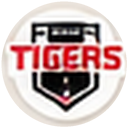
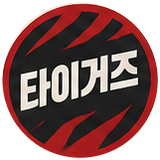
결정 보드 개편: 월요일 시작, 구단명 스티커, 구장 그림, A/H 표시, 손글씨 이벤트 10종, 찐팬 제외

diff --git a/index.html b/index.html
@@ -290,6 +290,27 @@ p{margin:0;line-height:1.55}
 .jump:focus-visible{outline:2px solid var(--accent);outline-offset:2px}
 .in{top:5cqi!important}
 @media (max-width:760px){.jump{position:static;display:block;margin:20px 14px -8px auto;font-size:12px;padding:4px 12px}}
+.dw.sat,.dc.sat .d{color:#2f5fc4}
+.dc .d .ah{display:inline-flex;gap:.15em;margin-left:.25em;font-size:.82em;color:var(--p-muted);vertical-align:.05em}
+.ah i,.ah14 i{font-style:normal;position:relative;display:inline-block;line-height:1}
+.ah i.on::after,.ah14 i.on::after{content:"";position:absolute;inset:-.28em -.32em;border:.1em solid #c8102e;border-radius:50%;transform:rotate(-8deg)}
+.ah14{position:absolute;left:2.6em;top:.65em;display:flex;gap:.45em;font-family:var(--num);font-weight:700;font-size:1.1em;color:var(--p-muted)}
+@media (prefers-reduced-motion:no-preference){.ah14 i.on::after{animation:circ 3.4s ease-out infinite;clip-path:inset(0 0 0 0)}}
+@keyframes circ{0%,25%{opacity:0;transform:rotate(-8deg) scale(1.4)}38%{opacity:1;transform:rotate(-8deg) scale(1)}90%{opacity:1}100%{opacity:0}}
+.stimg{width:100%;height:auto;display:block;border-radius:.2em;mix-blend-mode:multiply}
+.slot.top.s1{padding:0}
+.cal.sideonly.withthumbs{width:24em}
+.peek.thumbs{background:none;display:flex;flex-direction:column;justify-content:center;gap:.8em;padding-left:.8em;border-left:1px dashed var(--p-line)}
+.peek.thumbs figure{margin:0;display:flex;flex-direction:column;gap:.2em}
+.peek.thumbs img{width:100%;border-radius:.2em;mix-blend-mode:multiply}
+.peek.thumbs figcaption{font-family:var(--hand);font-size:.75em;color:var(--p-muted)}
+.evh{display:inline-flex;align-items:center;gap:.35em;font-family:var(--hand);font-weight:700;font-size:2cqi;line-height:1;color:var(--c);background:#fffdf7;border:.12em dashed var(--c);border-radius:.8em;padding:.35em .75em .4em;box-shadow:0 .12em .35em rgba(0,0,0,.18);white-space:nowrap;transform:rotate(-2deg)}
+.evh:nth-child(even){transform:rotate(2deg)}
+.evh b{font-family:var(--num);font-size:.8em;color:#fff;background:var(--c);border-radius:99px;min-width:1.3em;height:1.3em;padding:0 .3em;display:inline-grid;place-items:center}
+.evh.sm{font-size:1.2cqi}
+.evh.xs{font-size:.42em;border-width:.08em;padding:.2em .45em;gap:.2em;box-shadow:0 .06em .15em rgba(0,0,0,.2)}
+.evh.xs2{font-size:.62em}
+@media (max-width:760px){.evh{font-size:17px}.evh.sm{font-size:12px}}
 /* sticker sheet */
 .sheet{background:var(--p-sheet);border-radius:.6em;padding:.9em;box-shadow:0 .4em 1em -.5em rgba(0,0,0,.45);display:flex;flex-direction:column;gap:.55em;width:19em;color:var(--p-ink)}
 .sheet .sh{display:flex;justify-content:space-between;align-items:baseline;font-family:var(--num);font-weight:700;font-size:.85em;letter-spacing:.08em}
@@ -361,7 +382,7 @@ var TEAM=["#c8102e","#0b2a5b","#e85d04","#1d6f42","#6a1b9a","#222222","#0077b6",
 
 var D=[
  {key:"top",q:"왼쪽 위 그림 칸",title:"왼쪽 위 그림 칸에는 무엇을 넣을까?",hint:"가로 탁상형(샘플 모양)은 확정이에요. 왼쪽 패널에 들어갈 내용을 정해요.",opts:[
-   {t:"구단 구장 그림",d:"달마다 다른 구장을 선 그림으로. 열두 달 넘기면 전 구장을 다 돌아요.",f:[["소장 포인트","구장 투어"],["제작","구장 일러스트 10~12장"],["검토","구장 디자인 사용"]]},
+   {t:"구단 구장 그림",d:"시즌 달은 구장 그림, 1월은 전지훈련(비행기 · 가방), 12월은 골든글러브.",f:[["소장 포인트","구장 투어"],["제작","일러스트 12장"],["검토","구장 디자인 사용"]]},
    {t:"전설의 선수 소개",d:"선수 그림 한 컷과 4~5줄 소개. 아이에게 들려줄 야구 이야기가 생겨요.",f:[["읽을거리","있음"],["제작","그림 + 원고 12편"],["검토","초상·성명권"]]},
    {t:"이달의 야구 룰 한 컷",d:"제안 옵션. 인필드 플라이, 보크 같은 룰을 그림 퀴즈로 보여줘요.",f:[["서브 타겟","잘 맞음"],["제작","그림 + 짧은 글"],["검토","부담 적음"]]}]},
  {key:"bottom",q:"왼쪽 아래 작은 칸",title:"그림 아래 작은 칸에는 무엇을 넣을까?",hint:"매달 직접 채우는 칸이 있으면 다꾸 매니아가 더 오래 써요.",opts:[
@@ -371,15 +392,15 @@ var D=[
  {key:"homeaway",q:"홈 · 원정 표시",title:"오늘 경기가 홈인지 원정인지, 어떻게 표시할까?",hint:"기본: 상대팀 스티커를 날짜 칸에 붙여 오늘 누구와 경기하는지 표시해요.",opts:[
    {t:"HOME · AWAY 글자 위에 붙이기",d:"칸마다 HOME · AWAY를 인쇄해 두고, 홈 경기면 AWAY 자리에 상대팀 스티커를 붙여요.",f:[["인쇄","칸마다 글자"],["스티커","추가 없음"],["한눈에","잘 보임"]]},
    {t:"홈 · 원정 스티커 따로",d:"HOME, AWAY 스티커를 따로 만들어 상대팀 스티커 옆에 붙여요.",f:[["인쇄","없음"],["스티커","경기당 2장"],["다꾸","재미있음"]]},
-   {t:"구분하지 않기",d:"상대팀 스티커만 붙여요. 가장 간단하고 칸이 깔끔해요.",f:[["인쇄","없음"],["스티커","경기당 1장"],["정보","홈·원정 없음"]]}]},
- {key:"sticker",q:"경기 결과 스티커",title:"경기 결과 스티커는 어떤 모양으로?",hint:"승 · 패 · 무 · 취소 4종이에요. 상대팀은 로고 스티커로 따로 붙여요.",opts:[
+   {t:"날짜 옆 A · H에 동그라미",d:"날짜 옆에 A(원정) H(홈)를 작게 인쇄해 두고, 펜으로 동그라미를 쳐서 표시해요.",f:[["인쇄","날짜 옆 A H"],["스티커","추가 없음"],["칸 여백","가장 넉넉"]]}]},
+ {key:"sticker",q:"경기 결과 스티커",title:"경기 결과 스티커는 어떤 모양으로?",hint:"승 · 패 · 무 · 취소 4종이에요. 상대팀은 구단명 원형 스티커로 따로 붙여요.",opts:[
    {t:"원형 배지",d:"동그라미 안에 글자 하나. 색으로 바로 구분돼요.",f:[["가독성","높음"],["크기","작게도 잘 보임"]]},
    {t:"손글씨 네모",d:"네모 칸 안에 손글씨. 다꾸 감성이 살아요.",f:[["다꾸 감성","높음"],["가독성","좋음"]]},
    {t:"야구공 표정",d:"이기면 웃고, 지면 화내는 공. 표정만 봐도 결과가 보여요.",f:[["아이 반응","좋음"],["캐릭터화","가능"]]}]},
  {key:"pack",q:"판매 구성",title:"어떻게 묶어서 팔까?",hint:"가격과 마진(목표 20%)에 직접 연결돼요. 원가는 견적 후 확정해요.",opts:[
-   {t:"올인원 한 가지",d:"달력에 지금까지 만든 스티커(상대팀, 경기 결과, 이벤트, 찐팬)를 모두 넣어 한 가지로 팔아요.",f:[["고르기","고민 없음"],["재고","1종"],["가격","하나로 단순"]]},
-   {t:"기본 + 추가 옵션",d:"기본은 달력 + 상대팀·경기 결과 스티커. 이벤트, 찐팬 스티커는 원하는 사람만 추가해요.",f:[["기본가","낮출 수 있음"],["재고","3종"],["객단가","옵션으로 상승"]]},
-   {t:"옵션 2 + 선물용 커버",d:"옵션 2에 선물용 커버를 더하고, 달력 첫 장에 주문자가 쓴 메시지를 넣어 줘요.",f:[["선물 수요","연말 시즌"],["재고","3종 + 커버"],["검토","메시지 인쇄 공정"]]}]},
+   {t:"올인원 한 가지",d:"달력에 지금까지 만든 스티커(상대팀, 경기 결과, 이벤트)를 모두 넣어 한 가지로 팔아요.",f:[["고르기","고민 없음"],["재고","1종"],["가격","하나로 단순"]]},
+   {t:"기본 + 추가 옵션",d:"기본은 달력 + 상대팀·경기 결과 스티커. 이벤트 스티커는 원하는 사람만 추가해요.",f:[["기본가","낮출 수 있음"],["재고","2종"],["객단가","옵션으로 상승"]]},
+   {t:"옵션 2 + 선물용 커버",d:"옵션 2에 선물용 커버를 더하고, 달력 첫 장에 주문자가 쓴 메시지를 넣어 줘요.",f:[["선물 수요","연말 시즌"],["재고","2종 + 커버"],["검토","메시지 인쇄 공정"]]}]},
  {key:"material",q:"종이·스티커 소재",title:"종이와 스티커는 무엇으로? (옵션 더 탐색 필요)",hint:"인쇄소 샘플로 실물을 비교한 뒤 확정해요.",opts:[
    {t:"모조지 + 무광 유포지",d:"필기감 좋은 기본 조합. 펜으로 쓰기 편해요.",f:[["필기감","좋음"],["단가","낮음"],["재부착","불가"]]},
    {t:"고급지 + 리무버블",d:"떼었다 다시 붙일 수 있어 실수해도 괜찮아요.",f:[["다꾸 친화","높음"],["단가","보통"],["재부착","가능"]]},
@@ -428,12 +449,13 @@ function result(style,r,team){
 function cornerMock(o){
   return '<div class="corner" style="font-size:.85cqi"><div class="ccell"><span class="d">14</span><span class="cc">'+logo(7,' style="width:2.1em;height:2.1em"')+'<span class="mini-b" style="font-size:.62em">'+badge(o.sticker,"w")+'</span></span></div><span class="ccap">달력에 붙인 모습</span></div>';
 }
-var EVENTS=[["개막전","#c8102e"],["올스타","#b8862b"],["가을야구","#d9692b"],["직관","#1c2a4a"],["국제경기","#2f5fc4"]];
+var EVENTS=[["개막전","#c8102e","✦"],["올스타전","#b8862b","★"],["포스트시즌","#d9692b","♛"],["직관","#1c2a4a","♥"],["끝내기","#c8102e","!!"],["완봉","#2f7d4f","0"],["만루홈런","#d9692b","4"],["스윕","#2f5fc4","✓✓✓"],["승요","#e5809b","♥"],["패요","#5d6577","☂"]];
+function evSticker(e,cls){return '<span class="evh'+(cls?" "+cls:"")+'" style="--c:'+e[1]+'"><b>'+e[2]+'</b>'+e[0]+'</span>'}
 var FANS=[["말소","#7d8591"],["등록","#2f7d4f"],["부상","#c8102e"],["대체선수","#6a4fb3"],["FA 영입","#b8862b"],["계약해지","#3a3f4a"],["계약완료","#1c2a4a"],["트레이드","#d9692b"]];
 function eventSheet(){
-  return '<div class="sheetcard"><div class="sh"><span>EVENT STICKER</span><span>기본 5종</span></div><div class="evrow">'+
-    EVENTS.map(function(e){return '<span class="evs" style="--c:'+e[1]+'">'+e[0]+'</span>'}).join("")+'</div>'+
-    '<div class="evcell"><span class="d">3</span><span class="evs sm" style="--c:#c8102e">개막전</span><span class="d2">달력에 붙인 모습</span></div></div>';
+  return '<div class="sheetcard"><div class="sh"><span>EVENT STICKER</span><span>기본 '+EVENTS.length+'종</span></div><div class="evrow">'+
+    EVENTS.map(function(e){return evSticker(e)}).join("")+'</div>'+
+    '<div class="evcell"><span class="d">27</span>'+evSticker(EVENTS[4],"sm")+'<span class="d2">달력에 붙인 모습</span></div></div>';
 }
 function fanSheet(){
   return '<div class="sheetcard"><div class="sh"><span>찐팬 STICKER</span><span>기본 8종 · 이름 칸</span></div><div class="fanrow">'+
@@ -454,7 +476,7 @@ var GAMES=(function(){
   g[10][0]="c";
   return g;
 })();
-var EXTRAS={3:["fan","부상"],5:["ev","직관"],17:["fan","등록"],19:["ev","직관"],24:["fan","트레이드"],29:["fan","말소"]};
+var EXTRAS={5:["ev","직관"],10:["ev","패요"],13:["ev","스윕"],19:["ev","끝내기"],24:["ev","만루홈런"],26:["ev","승요"]};
 function stadiumSvg(c){
   return '<svg viewBox="0 0 120 70" class="art" aria-hidden="true" fill="none" stroke="'+c+'" stroke-width="1.3" stroke-linecap="round">'+
   '<ellipse cx="60" cy="44" rx="50" ry="18"/><ellipse cx="60" cy="42" rx="38" ry="11"/><ellipse cx="60" cy="41" rx="24" ry="6" stroke-dasharray="2 2"/>'+
@@ -474,15 +496,15 @@ function ruleSvg(c,c2){
   '<path d="M40 30 q6 -14 14 -18" stroke-dasharray="2 2"/><circle cx="55" cy="11" r="2.5" fill="#fff"/></svg>';
 }
 function topSlot(n,p){
-  if(n===1) return '<div class="slot top s1">'+stadiumSvg(p.main)+'<span class="cap">6월의 구장</span></div>';
+  if(n===1) return '<div class="slot top s1"><img class="stimg" src="st/jun.png" alt="6월 구장 그림"></div>';
   if(n===2) return '<div class="slot top s2">'+playerSvg(p.main)+'<div class="bio"><b>전설의 에이스</b><i></i><i></i><i></i><i style="width:60%"></i></div></div>';
   return '<div class="slot top s3">'+ruleSvg(p.main,p.accent2)+'<span class="cap">Q. 인필드 플라이?</span></div>';
 }
 function bottomSlot(n,p){
   if(n===1){
-    var first=new Date(2027,6,1).getDay(), h='<div class="mini"><span class="mt">JULY</span><div class="mg">';
-    ["S","M","T","W","T","F","S"].forEach(function(w,i){h+='<span class="'+(i===0?"sun":"")+'">'+w+'</span>'});
-    for(var i=0;i<35;i++){var d=i-first+1;h+='<span class="'+(i%7===0?"sun":"")+'">'+(d>=1&&d<=31?d:"")+'</span>'}
+    var first=(new Date(2027,6,1).getDay()+6)%7, h='<div class="mini"><span class="mt">JULY</span><div class="mg">';
+    ["M","T","W","T","F","S","S"].forEach(function(w,i){h+='<span class="'+(i===6?"sun":"")+'">'+w+'</span>'});
+    for(var i=0;i<35;i++){var d=i-first+1;h+='<span class="'+(i%7===6?"sun":"")+'">'+(d>=1&&d<=31?d:"")+'</span>'}
     return '<div class="slot bot b1">'+h+'</div></div></div>';
   }
   if(n===2) return '<div class="slot bot b2"><span class="lab">이달의 MVP</span><div class="mvp"><span class="frame">★</span><div class="lines"><i></i><i></i></div></div></div>';
@@ -493,7 +515,8 @@ function sidePanel(o,p,focus){
 }
 function sideMock(o,focus){
   var p=MOODS[o.mood];
-  return '<div class="mk" style="'+vars(o.mood)+'"><div class="cal sideonly">'+sidePanel(o,p,focus)+'<div class="peek"></div></div></div>';
+  var peek=(focus==="top"&&o.top===1)?'<div class="peek thumbs"><figure><img src="st/jan.png" alt="1월 전지훈련 그림"><figcaption>1월 · 전지훈련</figcaption></figure><figure><img src="st/dec.png" alt="12월 골든글러브 그림"><figcaption>12월 · 골든글러브</figcaption></figure></div>':'<div class="peek"></div>';
+  return '<div class="mk" style="'+vars(o.mood)+'"><div class="cal sideonly'+(focus==="top"&&o.top===1?" withthumbs":"")+'">'+sidePanel(o,p,focus)+peek+'</div></div>';
 }
 var GAMES=(function(){
   // 2027년 6월: 월요일만 쉬고 매일 경기. 화~목, 금~일 3연전 단위로 상대와 홈/원정이 바뀌어요.
@@ -506,27 +529,28 @@ var GAMES=(function(){
   g[10][0]="c";
   return g;
 })();
-var EXTRAS={3:["fan","부상"],5:["ev","직관"],17:["fan","등록"],19:["ev","직관"],24:["fan","트레이드"],29:["fan","말소"]};
+var EXTRAS={5:["ev","직관"],10:["ev","패요"],13:["ev","스윕"],19:["ev","끝내기"],24:["ev","만루홈런"],26:["ev","승요"]};
 function calMock(o){
   var l=o.layout,m=o.mood,s=o.sticker,p=MOODS[m];
-  var first=new Date(2027,5,1).getDay(), days=30, cells="";
-  ["SUN","MON","TUE","WED","THU","FRI","SAT"].forEach(function(w,i){cells+='<div class="dw'+(i===0?" sun":"")+'">'+w+'</div>'});
+  var first=(new Date(2027,5,1).getDay()+6)%7, days=30, cells="";
+  ["MON","TUE","WED","THU","FRI","SAT","SUN"].forEach(function(w,i){cells+='<div class="dw'+(i===6?" sun":i===5?" sat":"")+'">'+w+'</div>'});
   for(var i=0;i<35;i++){
-    var d=i-first+1, inM=d>=1&&d<=days, sun=i%7===0, stk="", corner="", pos="";
+    var d=i-first+1, inM=d>=1&&d<=days, sun=i%7===6, sat=i%7===5, stk="", corner="", pos="", ahm="";
     if(inM&&GAMES[d]){
       var g=GAMES[d], dot=(d%2?p.main:p.accent2);
       var home=g[2], lg=logo(g[1],' style="width:1.35em;height:1.35em"'), bd='<span class="mini-b">'+badge(s,g[0])+'</span>';
       if(o.homeaway===1){ corner=bd; stk=lg; pos=home?"aw":"hm"; }
       else if(o.homeaway===2){ corner='<span class="hatag" style="background:'+(home?p.main:p.accent2)+';font-size:.42em">'+(home?"HOME":"AWAY")+'</span>'; stk=lg+bd; }
-      else stk=lg+bd;
+      else { stk=lg+bd; ahm='<span class="ah"><i class="'+(home?"":"on")+'">A</i><i class="'+(home?"on":"")+'">H</i></span>'; }
     }
+    else if(inM&&o.homeaway===3) ahm='<span class="ah"><i>A</i><i>H</i></span>';
     var xt="";
     if(inM&&EXTRAS[d]){var e=EXTRAS[d];
-      if(e[0]==="ev"){var ec=(EVENTS.filter(function(x){return x[0]===e[1]})[0]||["","#1c2a4a"])[1]; xt='<span class="xtra"><span class="xev" style="background:'+ec+'">★ '+e[1]+'</span></span>';}
+      if(e[0]==="ev"){var ee=EVENTS.filter(function(x){return x[0]===e[1]})[0]||EVENTS[3]; xt='<span class="xtra">'+evSticker(ee,"xs")+'</span>';}
       else {var fc=(FANS.filter(function(x){return x[0]===e[1]})[0]||["","#7d8591"])[1]; xt='<span class="xtra"><span class="xfan" style="--c:'+fc+'"><b>'+e[1]+'</b><i>○○○</i></span></span>';}
     }
     var printed=(inM&&o.homeaway===1)?'<span class="haw"><i>HOME</i><i>AWAY</i></span>':"";
-    cells+='<div class="dc'+(sun?" sun":"")+'">'+(inM?'<span class="d">'+d+'</span>':"")+printed+(corner?'<span class="rbc">'+corner+'</span>':"")+(stk?'<span class="stk'+(pos?" on-"+pos:"")+'">'+stk+'</span>':"")+xt+'</div>';
+    cells+='<div class="dc'+(sun?" sun":sat?" sat":"")+'">'+(inM?'<span class="d">'+d+ahm+'</span>':"")+printed+(corner?'<span class="rbc">'+corner+'</span>':"")+(stk?'<span class="stk'+(pos?" on-"+pos:"")+'">'+stk+'</span>':"")+xt+'</div>';
   }
   var extra = l===2?'<div class="memo"><span class="lab">한 줄 후기</span><span class="ln"></span><span class="ln"></span><span class="ln"></span></div>'
            : l===3?'<div class="free">자유롭게<br>꾸미는 칸</div>':"";
@@ -538,11 +562,10 @@ function sheetMock(o,wide){
   function sec(t,items){return '<div class="sec"><span class="st">'+t+'</span><div class="items">'+items+'</div></div>'}
   var res=["w","l","d","c","w","l"].map(function(r){return '<span class="mini-b" style="font-size:.62em">'+badge(s,r)+'</span>'}).join("");
   var dots=[p.main,p.main,p.accent2,p.accent2,p.main,p.accent2].map(function(c){return '<span class="dot" style="background:'+c+';width:.8em;height:.8em"></span>'}).join("");
-  var ev=["개막전","올스타","가을야구","직관","국제경기"].map(function(t,i){return '<span class="ev" style="color:'+(i%2?p.main:p.accent2)+'">'+t+'</span>'}).join("");
+  var ev=EVENTS.map(function(e){return evSticker(e,"xs2")}).join("");
   var ha=o.homeaway===2?sec("홈 · 원정",'<span class="hatag" style="background:'+p.main+'">HOME</span><span class="hatag" style="background:'+p.accent2+'">AWAY</span><span class="hatag" style="background:'+p.main+'">HOME</span><span class="hatag" style="background:'+p.accent2+'">AWAY</span>'):"";
   var html=sec("경기 결과",res)+ha+sec("이벤트",ev);
-  html+=sec("찐팬",FANS.slice(0,4).map(function(f){return '<span class="hatag" style="background:'+f[1]+'">'+f[0]+' ___</span>'}).join(""));
-  html+=sec("상대팀 로고",TEAM.map(function(c,i){return logo(i,' style="width:1.5em;height:1.5em"')}).join(""));
+  html+=sec("상대팀 (구단명)",TEAM.map(function(c,i){return logo(i,' style="width:1.5em;height:1.5em"')}).join(""));
   return '<div class="mk" style="'+vars(m)+'"><div class="sheet'+(wide?" wide":"")+'"><div class="sh"><span>STICKER SHEET</span><span></span></div>'+html+'</div></div>';
 }
 function packMock(o){
@@ -553,12 +576,11 @@ function packMock(o){
   }
   var h='<div class="oform"><div class="ohead"><span>주문 화면 예시</span><b>'+(pk===1?"선택 없음 · 한 가지":"고객이 직접 골라요")+'</b></div>';
   if(pk===1){
-    h+=row("올인원 세트","달력 + 상대팀 · 결과 · 이벤트 · 찐팬 스티커","fixed","단일가");
+    h+=row("올인원 세트","달력 + 상대팀 · 결과 · 이벤트 스티커","fixed","단일가");
   } else {
     h+=row("기본 세트","달력 + 상대팀 · 경기 결과 스티커","fixed","기본가");
     h+='<div class="osub">추가 옵션 (원하는 것만 체크)</div>';
-    h+=row("이벤트 스티커","개막전 · 올스타 · 가을야구 …","on","+ 추가금");
-    h+=row("찐팬 스티커","말소 · 등록 · 부상 · 트레이드 …","off","+ 추가금");
+    h+=row("이벤트 스티커","개막전 · 끝내기 · 승요 · 패요 …","on","+ 추가금");
     if(pk===3){
       h+=row("선물용 커버","포장 + 첫 장 메시지","on","+ 추가금");
       h+='<div class="omsg"><span>첫 장 메시지</span><i>To. 아빠, 올해도 같이 직관 가요!</i></div>';
@@ -584,7 +606,7 @@ function haMock(o){
   var inner, cap;
   if(n===1){inner='<div class="words"><span>HOME</span><span class="aw">AWAY<span class="drop">'+opp+'</span></span></div>';cap="홈 경기: AWAY 자리에 상대팀 스티커";}
   else if(n===2){inner='<div class="pair"><span class="drop">'+opp+'</span><span class="drop d2"><span class="hatag" style="background:'+p.main+'">HOME</span></span></div>';cap="상대팀 + HOME 스티커 두 장";}
-  else {inner='<div class="pair"><span class="drop">'+opp+'</span></div>';cap="상대팀 스티커 한 장";}
+  else {inner='<span class="ah14"><i>A</i><i class="on">H</i></span><div class="pair"><span class="drop">'+opp+'</span></div>';cap="홈 경기: H에 펜으로 동그라미";}
   return '<div class="mk" style="'+vars(o.mood)+'"><div class="hacell"><span class="hd14">14</span>'+inner+'</div><span class="hacap">'+cap+'</span></div>';
 }
 function cur(){return {top:v("top"),bottom:v("bottom"),homeaway:v("homeaway"),layout:v("layout"),mood:v("mood"),sticker:v("sticker"),pack:v("pack"),material:v("material")}}
@@ -605,7 +627,7 @@ function cellFigure(){
   '<text x="1" y="3.2" font-size="2.8" font-family="Barlow Condensed,sans-serif" font-weight="700" fill="'+navy+'">14</text>'+
   '<text x="13.2" y="3.4" font-size="1.7" font-family="Barlow Condensed,sans-serif" font-weight="700" fill="#fff"><tspan></tspan></text>'+
   '<rect x="12" y="1.2" width="7" height="4" rx=".8" fill="'+navy+'"/><text x="15.5" y="3.9" text-anchor="middle" font-size="2" font-family="Barlow Condensed,sans-serif" font-weight="700" fill="#fff">HOME</text>'+
-  '<image href="stk/landers.png" x="1.8" y="5.2" width="9" height="9"/>'+
+  '<image href="stk/landers.png" x="1.3" y="4.7" width="10" height="10"/>'+
   '<circle cx="15.3" cy="9.7" r="3" fill="#d6263b" stroke="#fff" stroke-width=".35"/><text x="15.3" y="10.6" text-anchor="middle" font-size="2.4" font-weight="700" fill="#fff" font-family="Noto Sans KR,sans-serif">승</text>'+
   '<rect x="2.25" y="14.6" width="16" height="4.5" rx="2.25" fill="'+red+'"/><text x="10.25" y="17.6" text-anchor="middle" font-size="2.3" font-weight="700" fill="#fff" font-family="Noto Sans KR,sans-serif">★ 개막전</text>'+
   '<g stroke="#8a8f99" stroke-width=".12" fill="#8a8f99" font-size="1.6" font-family="Barlow Condensed,sans-serif">'+
@@ -619,8 +641,7 @@ var stage=document.getElementById("stage");
 function el(h){var t=document.createElement("template");t.innerHTML=h.trim();return t.content.firstChild}
 function esc(s){return String(s).replace(/[&<>"]/g,function(c){return{"&":"&amp;","<":"&lt;",">":"&gt;",'"':"&quot;"}[c]})}
 var LISTS=[
-  {kind:"event",q:"이벤트 스티커",title:"이벤트 스티커, 기본 5종에 무엇을 더할까?",hint:"기본: 개막전, 올스타, 가을야구, 직관, 국제경기.",sheet:eventSheet,label:"더 넣고 싶은 이벤트",ph:"예: 끝내기 홈런, 노히트노런, 은퇴식"},
-  {kind:"fan",q:"찐팬 스티커",title:"찐팬 스티커, 선수 이름을 써넣는 8종",hint:"스티커 뒤쪽 빈칸에 선수 이름을 직접 써요.",sheet:fanSheet,label:"더 넣고 싶은 찐팬 스티커나 의견",ph:"예: 1군 콜업, 데뷔 첫 승, 이름 칸을 더 길게"}
+  {kind:"event",q:"이벤트 스티커",title:"이벤트 스티커, 귀여운 손글씨 기본 10종",hint:"개막전, 올스타전, 포스트시즌, 직관, 끝내기, 완봉, 만루홈런, 스윕, 승요(승리요정), 패요(패배요정).",sheet:eventSheet,label:"더 넣고 싶은 이벤트",ph:"예: 끝내기 홈런, 노히트노런, 은퇴식"}
 ];
 var SLIDES=[{t:"base"},{t:"overview"}];
 D.forEach(function(x){SLIDES.push({t:"d",x:x}); if(x.key==="sticker") LISTS.forEach(function(l){SLIDES.push({t:"list",l:l})})});
@@ -664,12 +685,11 @@ function build(){
         '<h2>날짜 한 칸 약 20 × 19mm, 스티커는 이 크기로</h2><div class="sizegrid"><div style="display:flex;flex-direction:column;gap:1.2cqi;min-width:0">'+
         '<div class="assume"><span class="fact">달력 판형 <b>220 × 150mm 가정</b></span><span class="fact">왼쪽 패널 <b>55mm</b></span><span class="fact">날짜 영역 <b>144 × 118mm</b></span><span class="fact">한 칸 <b>약 20.5 × 19.5mm (6주 달)</b></span><span class="fact">5주 달은 <b>약 20.5 × 23.5mm</b></span></div>'+
         '<table class="stab"><thead><tr><th>스티커</th><th>권장 크기</th><th>시즌 수량 참고</th></tr></thead><tbody>'+
-        '<tr><td>상대팀 로고 <small>(기본)</small></td><td><b>지름 9mm</b></td><td>9개 구단 × 16경기, 구단별 18장</td></tr>'+
+        '<tr><td>상대팀 (구단명 원형) <small>(기본)</small></td><td><b>지름 10mm</b></td><td>9개 구단 × 16경기, 구단별 18장</td></tr>'+
         '<tr><td>경기 결과 <small>(기본)</small></td><td>원형 <b>지름 6mm</b> · 손글씨 <b>8 × 6mm</b> · 야구공 <b>지름 7mm</b></td><td>144경기: 승 · 패 각 80, 무 10, 취소 15</td></tr>'+
         '<tr><td>홈 · 원정 <small>(옵션 2)</small></td><td>태그 <b>7 × 4mm</b> · 옵션 1은 인쇄 글자 높이 2mm</td><td>홈 · 원정 각 75</td></tr>'+
-        '<tr><td>이벤트</td><td><b>16 × 4.5mm</b> 라벨</td><td>종류별 3~10장</td></tr>'+
-        '<tr><td>찐팬 (이름 칸)</td><td><b>18 × 4.5mm</b> (글자 7 + 이름 11mm)</td><td>종류별 5~10장</td></tr>'+
-        '</tbody></table><p class="status">한 칸에 가장 많이 붙는 경우: 상대팀 + 결과 + 이벤트(또는 찐팬) 3장, 홈 · 원정 스티커를 쓰면 4장. 오른쪽 그림처럼 위 줄 17mm, 아래 줄 16mm에 들어가요.</p></div>'+
+        '<tr><td>이벤트 (손글씨)</td><td><b>16 × 5mm</b> 라벨</td><td>10종, 종류별 3~10장</td></tr>'+
+        '</tbody></table><p class="status">한 칸에 가장 많이 붙는 경우: 상대팀 + 결과 + 이벤트 3장, 홈 · 원정 스티커를 쓰면 4장. 오른쪽 그림처럼 위 줄 17mm, 아래 줄 16mm에 들어가요.</p></div>'+
         '<div class="cellfig">'+cellFigure()+'<p>실제 비율로 그린 날짜 한 칸 (6주 달 기준)</p></div></div></div>'+pg(n+1)+'</section>';
     }
     var sec=el(h);
@@ -694,7 +714,7 @@ function rowsHTML(){
     rows.push('<button type="button" class="row" data-go="'+SLIDE_OF[x.key]+'"><span class="n">'+n+'</span><span class="k">'+esc(x.q)+'</span><span class="v'+(c?" done":"")+'">'+(c?"OPTION "+c+" · "+esc(x.opts[c-1].t):"아직 안 정했어요")+'</span></button>');
     if(x.key==="sticker") LISTS.forEach(function(l){
       var k=ideaCount(l.kind); n++;
-      rows.push('<button type="button" class="row" data-go="'+SLIDE_OF["list-"+l.kind]+'"><span class="n">'+n+'</span><span class="k">'+esc(l.q)+'</span><span class="v done">기본 '+(l.kind==="event"?5:8)+'종'+(k?" + 의견 "+k+"개":"")+'</span></button>');
+      rows.push('<button type="button" class="row" data-go="'+SLIDE_OF["list-"+l.kind]+'"><span class="n">'+n+'</span><span class="k">'+esc(l.q)+'</span><span class="v done">기본 '+EVENTS.length+'종'+(k?" + 의견 "+k+"개":"")+'</span></button>');
     });
   });
   return rows.join("");
